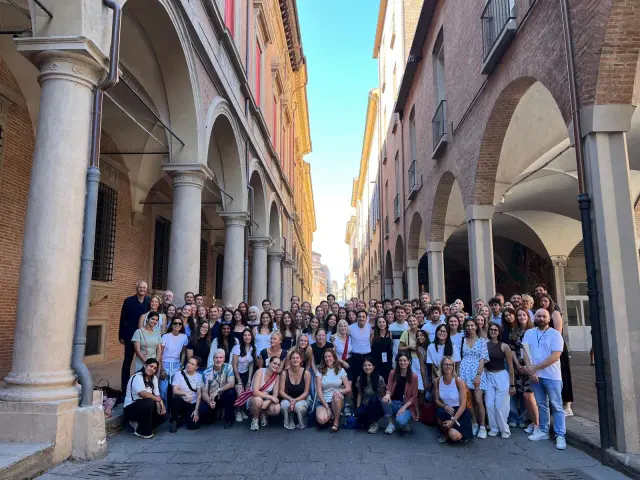
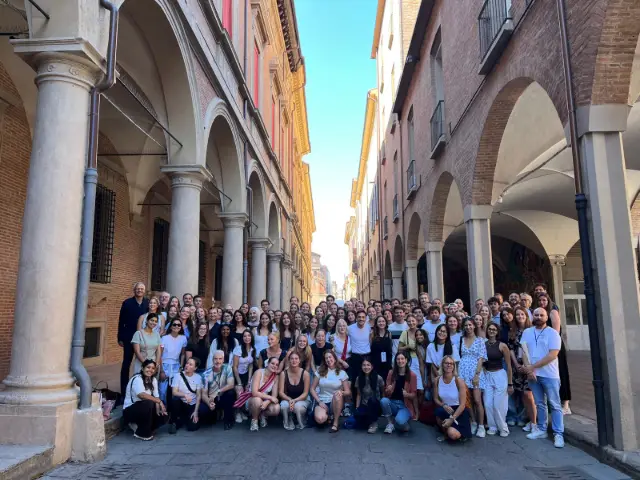
Homepage: higher-resolution cohort photo
- New cohort photo at 1600x1200 (was 1280x960); re-encoded, so no camera/GPS metadata
- WebP copies 640/960/1280 at about the same file sizes as before, plus a new
  1600 size for large and sharp (retina) screens
- home.js offers the 1600 size; image dimensions updated (same 4:3 shape)
- Lighthouse (same server, 3 runs): performance 71-72 vs 71-73 before, LCP unchanged

diff --git a/home.js b/home.js
@@ -6,9 +6,9 @@
 // │ HOMEPAGE SETTINGS: change the values here.                                   │
 // │                                                                              │
 // │ HERO_IMAGE        The JPG behind the hero. Next to it there must be WebP     │
-// │                   copies named <name>-640.webp, <name>-960.webp and          │
-// │                   <name>-1280.webp (smaller and faster). Phones get the 640, │
-// │                   big screens the 1280. Use "" for no photo (dark background).│
+// │                   copies named <name>-640.webp, -960, -1280 and -1600.webp   │
+// │                   (smaller and faster). Phones get the 640, big and sharp    │
+// │                   screens the 1600. Use "" for no photo (dark background).   │
 // │ HERO_IMAGE_ALT    What the photo shows, for people using screen readers.     │
 // │ STUDENT_COUNT     Students in the cohort.                                    │
 // │ COUNTRY_COUNT     Countries they come from.                                  │
@@ -27,7 +27,7 @@ const COHORT_LABEL = "2026–2028";
 const PROGRAM_END_DATE = "2028-09-30";
 const DIRECTORY_IS_DEMO = true;
 
-const HERO_WEBP_WIDTHS = [640, 960, 1280];
+const HERO_WEBP_WIDTHS = [640, 960, 1280, 1600];
 
 // "assets/images/x.jpg" -> "assets/images/x-640.webp 640w, ..." (for the browser to choose a size)
 function heroSrcset(image) {
@@ -99,8 +99,8 @@ function buildHomeHero() {
     const img = document.createElement("img");
     img.src = HERO_IMAGE;
     img.alt = HERO_IMAGE_ALT;
-    img.width = 1280;
-    img.height = 960;
+    img.width = 1600;
+    img.height = 1200;
     img.decoding = "async";
     img.setAttribute("fetchpriority", "high");
     // Photo missing or broken: remove it, the dark background stays (no broken-image icon)

diff --git a/index.html b/index.html
@@ -32,7 +32,7 @@
   <link rel="apple-touch-icon" href="img/apple-touch-icon.png">
   <script src="theme.js?v=d51d4769"></script>
   <!-- Homepage settings (photo, cohort numbers) + starts the photo download early -->
-  <script src="home.js?v=e2e8102c"></script>
+  <script src="home.js?v=e25ef1cd"></script>
 </head>
 <body class="home-page eh-home">
 

diff --git a/sw.js b/sw.js
@@ -8,7 +8,7 @@
 //   "Update available · Reload", and old saved copies are deleted.
 // Nothing personal is stored here: only public site files and public data.
 
-const VERSION = "956fbad4";
+const VERSION = "b8e2abf9";
 const SITE_CACHE = `site-${VERSION}`;
 const DATA_CACHE = "data"; // kept across versions, so offline data survives an update
 
